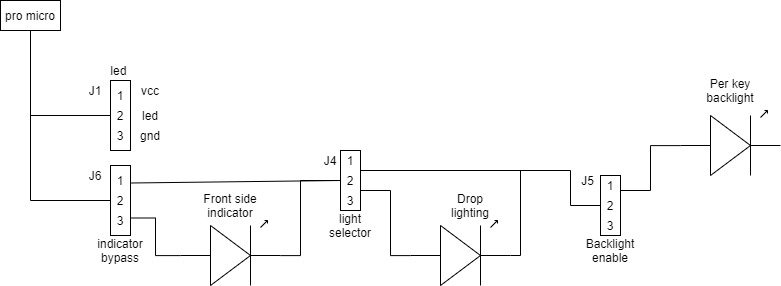
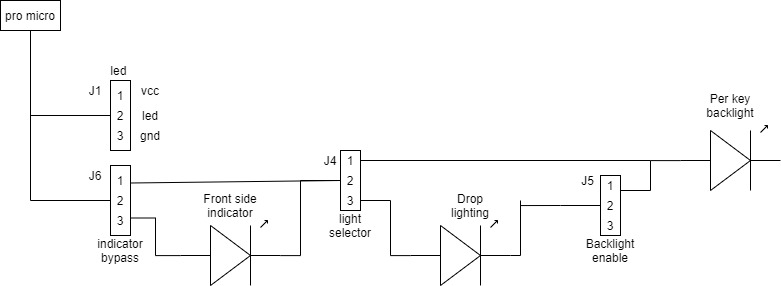
fixed up lighting configuration

diff --git a/docs/build_guide_rgb.md b/docs/build_guide_rgb.md
@@ -112,11 +112,11 @@ If you wish to use per key lighting, you also need to short pins 1-2 of 5.
 | :---: | :---: | :---: | :---: | :---: | :---: |
 | Y | N	| N | 2-3 |	|     |
 | Y | Y	| N | 2-3 | 2-3 |     |
-| Y | Y	| Y | 2-3 | 2-3	| 1-2 |
+| Y | Y	| Y | 2-3 | 2-3	|     |
 | Y | N	| Y | 2-3 | 1-2 | 1-2 |
 | N | N	| Y | 1-2 | 1-2 | 1-2 |
 | N | Y	| N | 1-2 | 2-3 |     |
-| N | Y | Y | 1-2 | 2-3	| 1-2 |
+| N | Y | Y | 1-2 | 2-3	|     |
 
 
 The per key lighting is painful and slow. For these it is definitely best to do them in order, and test regularly. Use as low a temperature as you can manage, place the board flat on a table, and drop an led in. Create a solder bridge from the led to the board, not spending too much time with the iron on the led (few seconds) otherwise it will burn out. 
